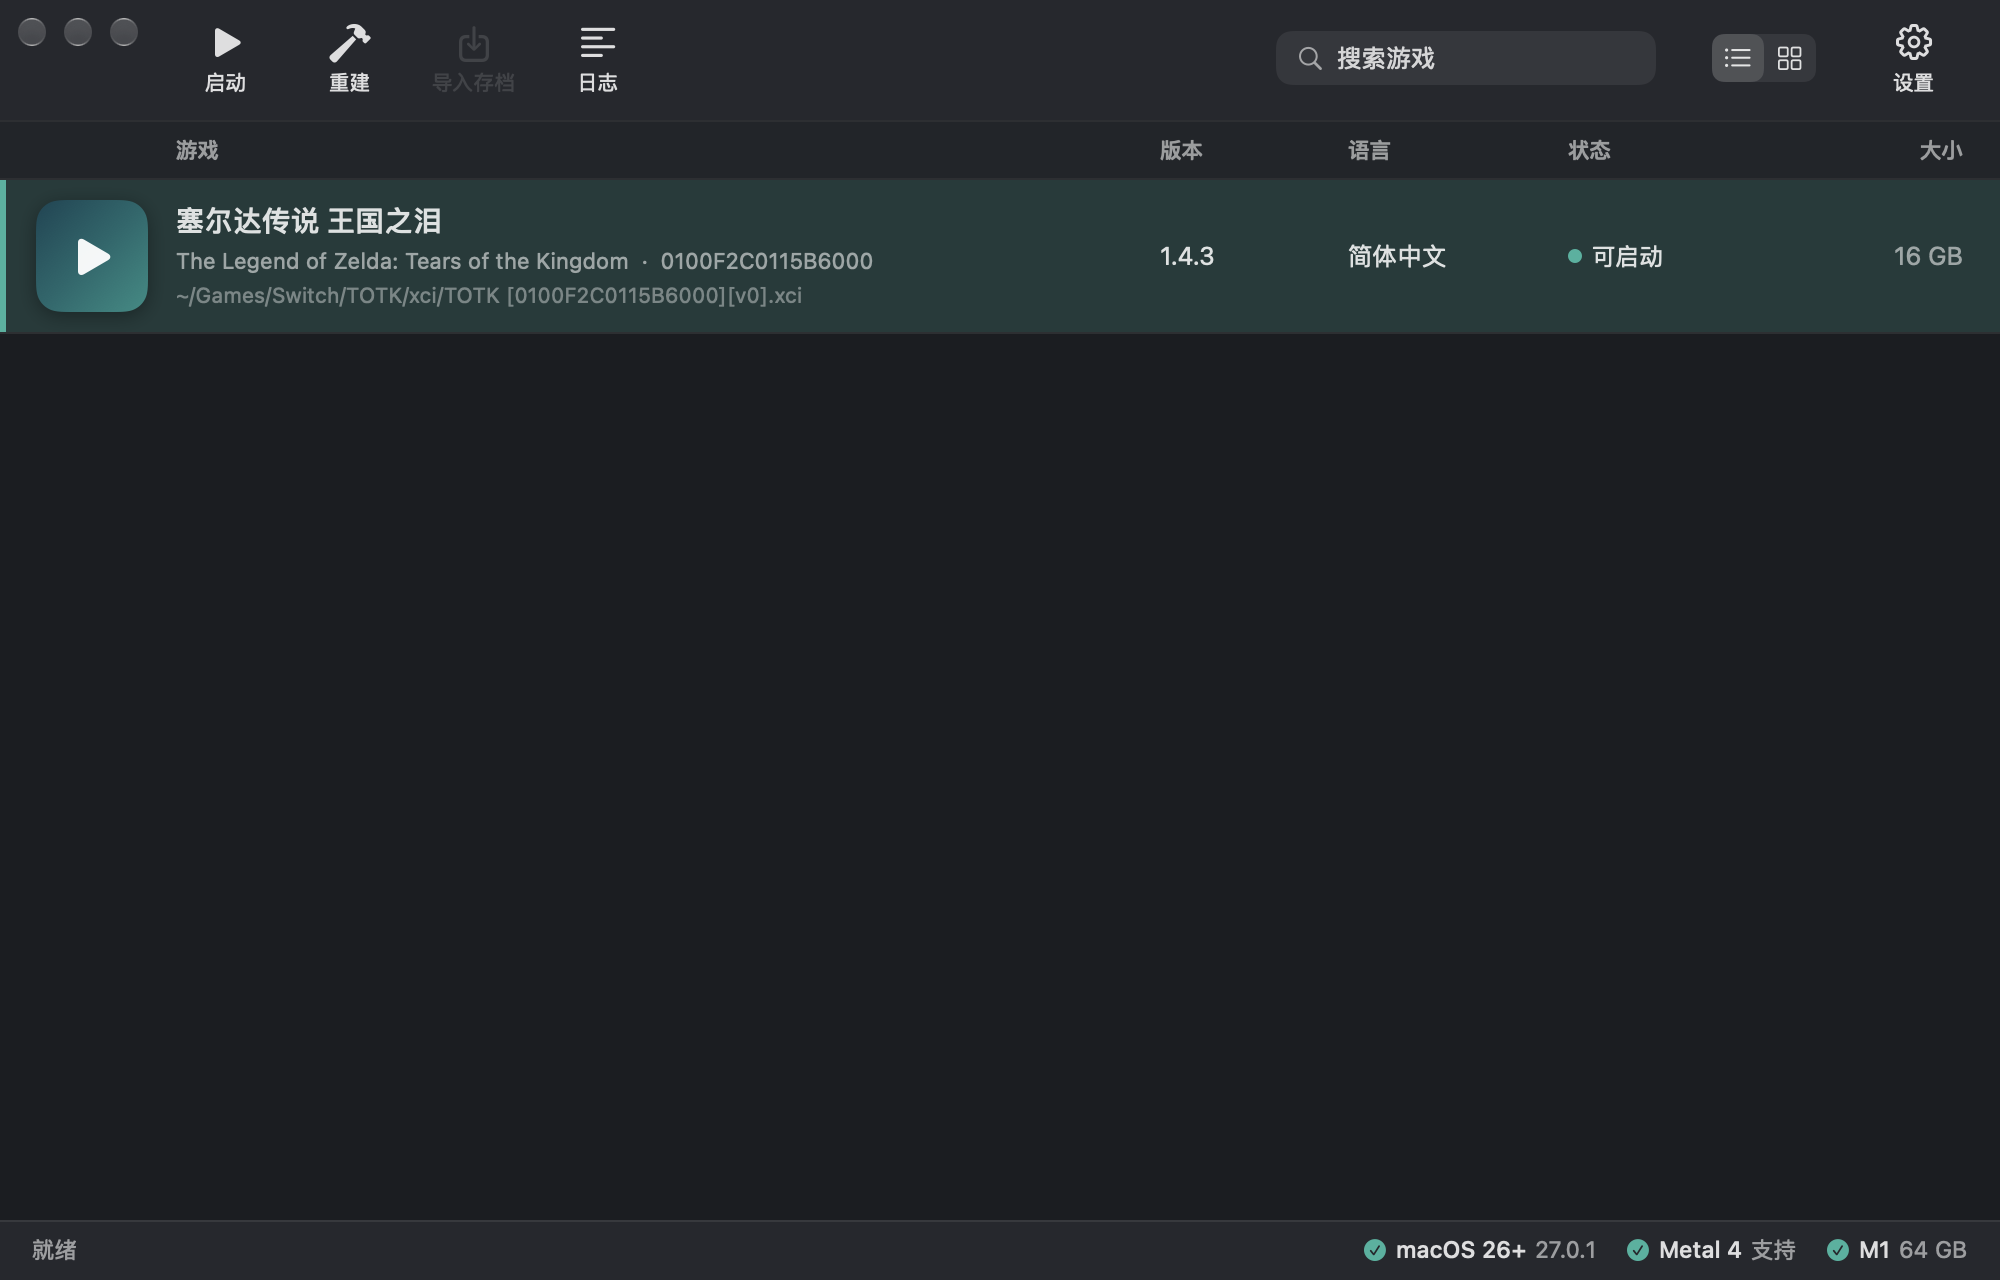
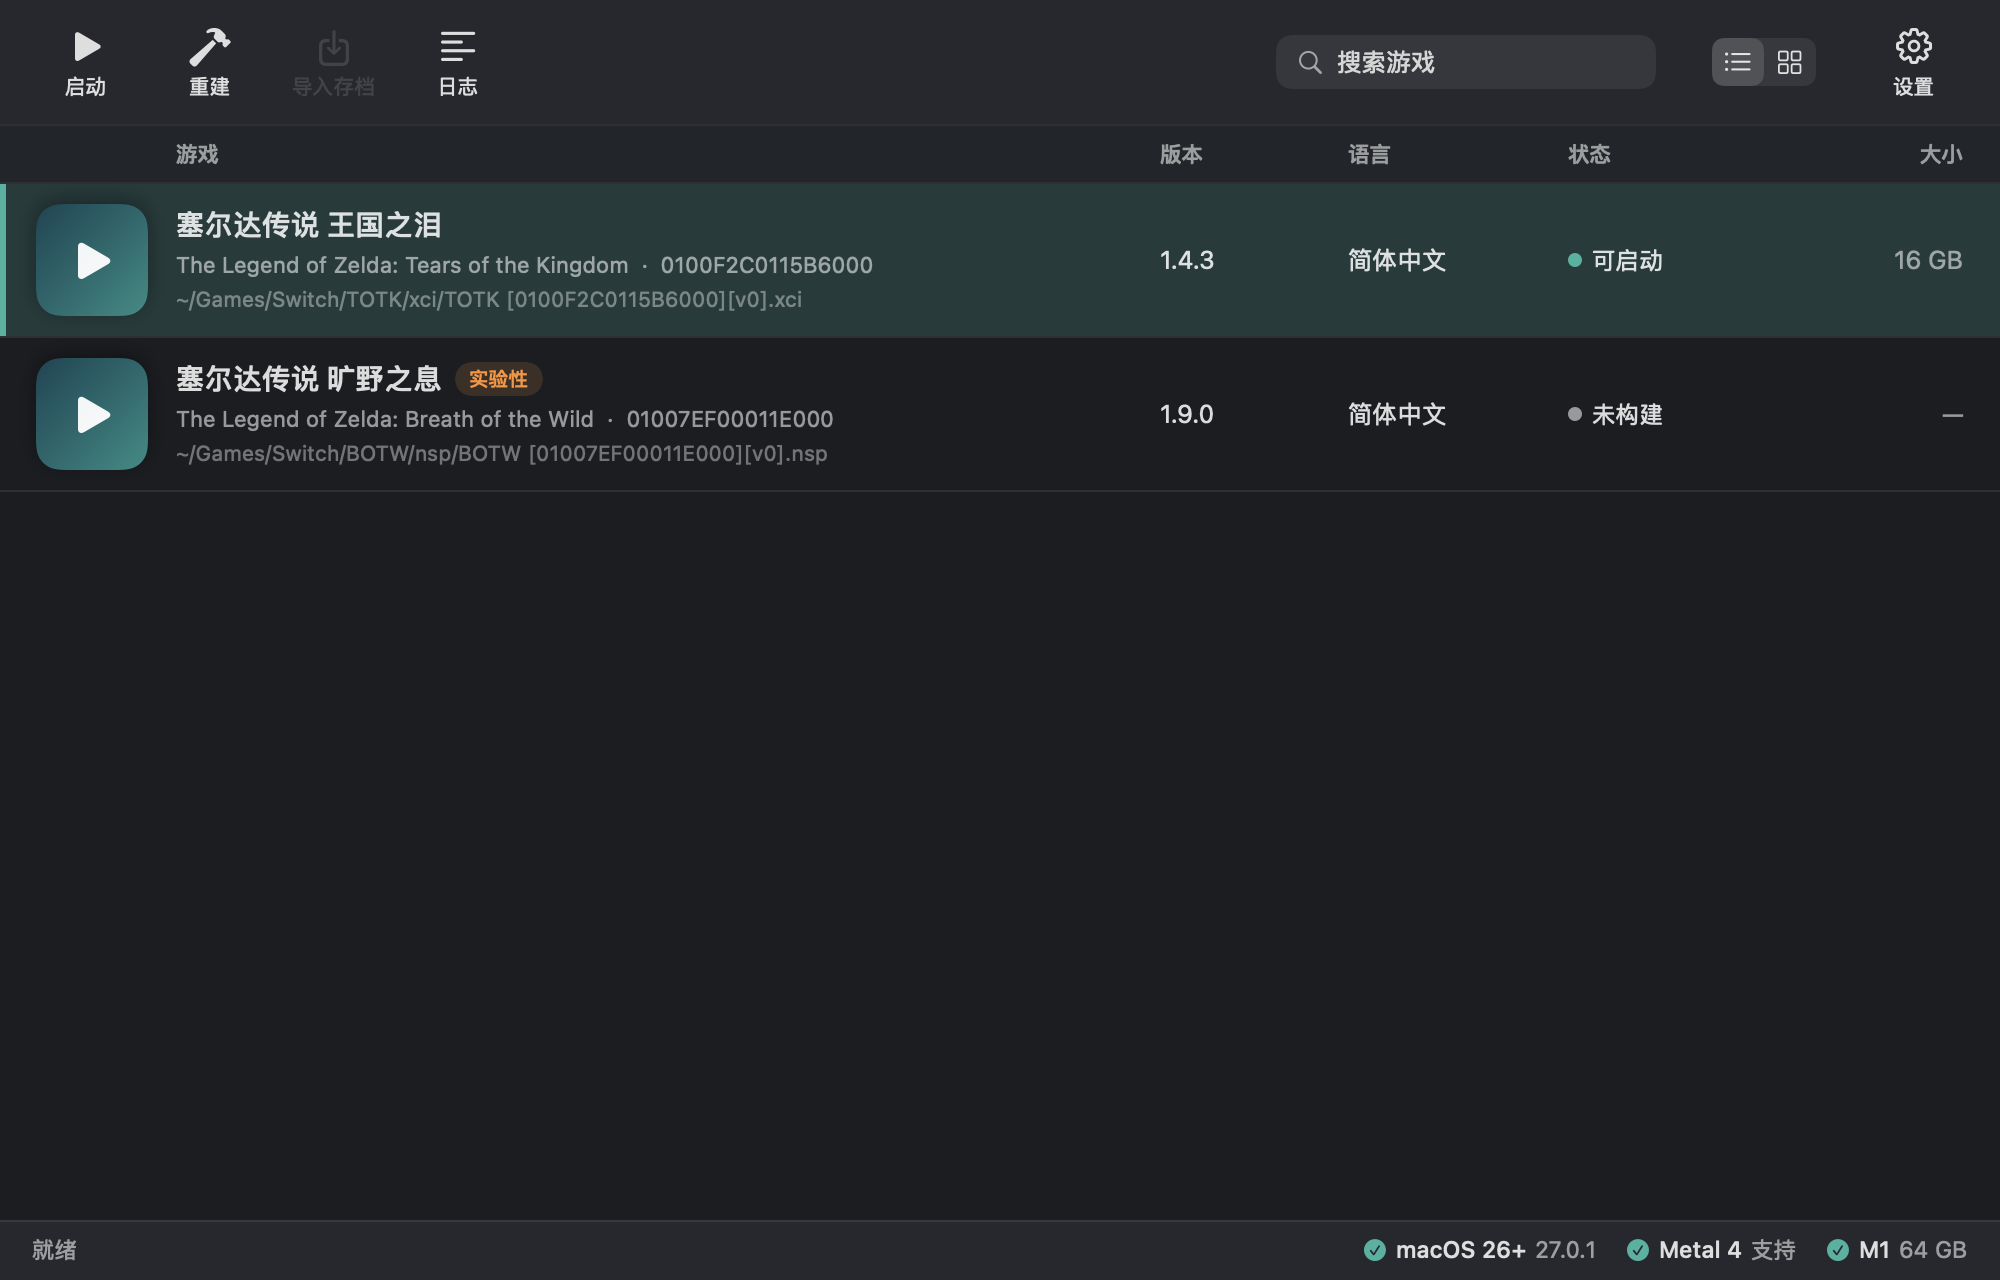
release 1.1.0: sw-launcher with BOTW (experimental) and RomFS mods
README (zh/en): rename, two games, BOTW status and the known 1.9.0 BGM damage,
RomFS mods usage, upgrade path; refreshed screenshots.

diff --git a/README.md b/README.md
@@ -1,4 +1,4 @@
-# Switch macOS Launcher · 王国之泪 启动器
+# sw-launcher · Switch macOS Launcher
 
 [中文](#中文) · [English](#english)
 
@@ -10,9 +10,11 @@
 
 一个 Ryujinx 风格的 macOS 启动器，用来在 **Apple 芯片 Mac** 上构建并运行**你自己拥有的**游戏。
 
-> **目前暂时只支持《塞尔达传说 王国之泪》（TOTK）。** 仓库名里的 “switch” 是预留给以后的，别的游戏现在不能用。
+> **支持两款游戏：《塞尔达传说 王国之泪》（TOTK）和《塞尔达传说 旷野之息》（BOTW，实验性）。** 别的游戏现在不能用。
+>
+> v1.1.0 起启动器改名为 **sw-launcher**（原名“王国之泪启动器”）。旧版的设置会自动迁移，已经构建好的王国之泪 App 不用重新构建。
 
-本项目**基于 [MacNativeGames](https://github.com/ly05010419/MacNativeGames)（MIT，作者 ly05010419）衍生**：构建与运行游戏的核心全部来自它；本仓库提供图形化启动器，以及一份针对 M1 / macOS 27 的兼容与加速补丁。
+本项目**基于 [MacNativeGames](https://github.com/ly05010419/MacNativeGames)（MIT，作者 ly05010419）衍生**：构建与运行游戏的核心全部来自它；本仓库提供图形化启动器，以及两份补丁：针对 M1 / macOS 27 的兼容与加速补丁，和旷野之息移植加 Mods 支持的补丁。启动器只记录并执行“怎么移植”，游戏文件只在你自己的 Mac 上处理。
 
 ### 重要声明（请务必阅读）
 
@@ -33,13 +35,15 @@
 
 ### 功能
 
-- **游戏库界面**：深色、工具栏（启动 / 构建 / 导入存档 / 日志）、搜索、列表 / 网格、底部状态栏；支持把 `.xci` / `.nsp` 直接拖进窗口。
+- **游戏库界面**：深色、工具栏（启动 / 构建 / 导入存档 / 日志）、搜索、列表 / 网格、底部状态栏；游戏库里有王国之泪和旷野之息两个条目，选中哪个，构建、启动、存档、日志和设置就针对哪个；支持把 `.xci` / `.nsp` 直接拖进窗口（文件名里带游戏 ID 时会自动选中对应的游戏）。
+- **两款游戏互不干扰**：存档、着色器缓存、日志分别放在 `~/Library/Application Support/MacNativeGames/<TOTK|BOTW>/` 和 `~/Library/Logs/MacNativeGames/<totk|botw>.log`。同一时间只能运行一款；另一款在运行时，启动器会提示，不会去关掉它。
+- **Mods**：支持替换游戏文件的 RomFS mod，见下文。
 - **系统检测**：macOS 版本、芯片（M1–M5 系列）、内存、Metal 3 / Metal 4；顶部和状态栏明确写出 **macOS 26+、Metal 4** 的要求，不满足时给出"不支持"。
 - **环境检查与后台安装**：检查 Xcode 命令行工具、Homebrew、Python 3.14、opus / libvpx、构建工具、**Metal Toolchain（839 MB）**、磁盘空间；缺什么就给"安装"按钮，后台下载并显示进度。每一项都要你点击才会执行。
 - **语言**：12 种，**默认简体中文**。游戏本体自带简体 / 繁体等文本，不需要额外的汉化补丁。
 - **存档**：选择存档文件夹后一键导入，**覆盖前自动备份**。
 - **构建**：调用 MacNativeGames 的构建脚本，显示 4 步进度；自动准备一份清理过的 `prod.keys` 副本（去掉会让 hactool 报错的行，原文件不动）。
-- **启动**：检测到"内存地址预留失败"时自动重试（见下文），不用手动再开。
+- **启动**：检测到"内存地址预留失败"时自动重试（见下文），不用手动再开。重试时只等上一次启动自己退出，不会结束任何进程。
 
 ### 相对上游的改进（`totk-mac-fixes.patch`）
 
@@ -53,9 +57,24 @@
 | **语言设置文件** | 双击启动的 App 读不到环境变量，改为读取 `~/Library/Application Support/MacNativeGames/TOTK/language.txt`。 | — |
 | **默认以原生 2K 启动**（v1.0.1） | 上游默认以 1920×1080 启动（画在 2560×1440 画布的左上角）。在测试机上，这一档和随后的 MetalFX 档都显示黑屏，完整 2560×1440 输出正常，所以默认改为以 2560×1440 启动。想回到上游的 1080p 启动，设环境变量 `TOTK_OUTPUT_RES=auto`。 | 启动后直接有画面，不用再按 `3`；整张画布都被画满。代价是渲染分辨率比 1080p 高，GPU 负担更重。 |
 
-### Mods 与其他尚未实现的事
+### 旷野之息（实验性，`sw-port.patch`）
 
-- **Mods：入口已预留，暂未实现。** 游戏运行时目前没有 Mods 加载器，设置里的 Mods 路径只会被保存，不会被应用（界面上标着"暂不生效"）。欢迎贡献。
+- **需要**：基础游戏的 NSP 和 **1.9.0 更新的 NSP**（只支持 1.9.0，构建时按程序哈希识别版本），以及和王国之泪一样的 `prod.keys`、固件。
+- **现状**：能构建、能启动，能看到开场的光芒和复苏神庙画面。场景偏暗，光照还不完整；没有经过长时间游玩验证；画质切换（MetalFX）和补帧还没有适配旷野之息。App 没有图标（用默认图标）。
+- **第一次启动比较慢**：旷野之息还没有预先准备好的着色器，用到时才翻译并缓存。
+- **已知损坏的更新文件**：有些 1.9.0 更新文件里有 1 MiB 损坏，全部落在 `Sound/Resource/Stream/Event_BGM_CompleteMasterSword.bfstm`（拔出大师之剑时的一段背景音乐）里。这种情况会照常构建并给出提示；这段音乐播放时会不会出问题还没有验证。**只要有任何一处损坏落在别的文件里，构建就会停下**，并列出出问题的文件，请换一份干净的更新文件。
+
+### Mods（RomFS 替换）
+
+- 在“设置 → 存档与 Mods”里选一个 Mods 文件夹。两种结构都认：`<Mods 文件夹>/<mod 名>/romfs/...`，以及 Ryujinx 的 `<Mods 文件夹>/contents/<游戏 ID>/<mod 名>/romfs/...`（只取当前游戏 ID 下的）。王国之泪的 ID 是 `0100F2C0115B6000`，旷野之息是 `01007EF00011E000`。
+- 每个 mod 可以单独开关、调整顺序；多个 mod 改了同一个文件时，**列表里靠下的生效**，界面上会标出冲突数。设置按游戏分开保存。
+- 改动在下次点“启动”时生效，**不用重新构建**。全部关掉时，游戏读到的就是原版文件。
+- **只能替换游戏里已有的文件**。mod 里原版没有的新文件会被跳过，游戏照常启动，启动器会标出“含新增文件，不支持”。
+- 启动后再改动 mod 文件，下次启动会被检查出来并提示重新启动。
+- **暂不支持** ExeFS 补丁（`.ips` / `.pchtxt`）和金手指（Atmosphere `cheats/`）。
+
+### 其他尚未实现的事
+
 - **1080p 启动档和 MetalFX 档在测试机上仍会黑屏**（v1.0.1 起默认已避开它们，改为原生 2K 启动）。游戏渲染和放大后的输出都是正常的，问题出在最后把画面送到窗口显示的一步，**根本原因没有找到**；在其他 Mac 上是否也会这样未知。
 - 在游戏里：`1` 显示 / 隐藏帧率等信息，`2` 切换补帧，`3` 循环切换画质（原生 2K → 关闭 2K（1080p）→ MetalFX 2K → 原生 2K；在测试机上只有"原生 2K"有画面）。
 
@@ -68,31 +87,35 @@
 
 ### 安装
 
-1. 到 [Releases](https://github.com/elisezhu123/switch-macos-launcher/releases) 下载 `TOTK-macOS-Launcher-v*-arm64.zip`，解压，拖到"应用程序"。
+1. 到 [Releases](https://github.com/elisezhu123/switch-macos-launcher/releases) 下载 `sw-launcher-v*-arm64.zip`，解压，拖到"应用程序"。
 2. **移除隔离属性（quarantine）。** 这个 App 没有 Apple 开发者签名和公证（只是本地临时签名），从浏览器下载后会被 macOS 拦截，需要在终端运行：
 
    ```bash
-   xattr -dr com.apple.quarantine "/Applications/王国之泪启动器.app"
+   xattr -dr com.apple.quarantine "/Applications/sw-launcher.app"
    ```
 
    也可以右键 → 打开，再在系统设置 → 隐私与安全性里点"仍要打开"。
-3. 打开 App → 设置（⌘,）→ 填入游戏本体、`prod.keys`、固件 → 在"环境"页把缺的东西装好 → 回到主窗口点"构建" → 构建完成后点"启动"。
+3. 打开 App → 在游戏库里选中要玩的游戏 → 设置（⌘,）→ 填入游戏本体（旷野之息还要 1.9.0 更新）、`prod.keys`、固件 → 在"环境"页把缺的东西装好 → 回到主窗口点"构建"，等进度条走完 → 点"启动"。
+4. 从 v1.0.x 升级：已经装好的构建工具只打过第一个补丁，在"环境"页点"Mac 兼容补丁与旷野之息移植"的"安装"，只会补打缺少的补丁。
 
 ### 从源码构建
 
 需要 Xcode（或命令行工具里的 `swiftc`）：
 
 ```bash
-./build.sh                       # 生成 王国之泪启动器.app
-./scripts/make-release.sh 1.0.0  # 构建、去掉 quarantine、打 zip 和校验和（输出到 dist/）
+./build.sh                       # 生成 sw-launcher.app
+./scripts/make-release.sh 1.1.0  # 构建、去掉 quarantine、打 zip 和校验和（输出到 dist/）
+./scripts/test.sh                # 启动器逻辑的单元测试（不需要游戏文件）
 ```
 
 ### 目录
 
 | 文件 | 作用 |
 |---|---|
-| `Launcher.swift` | 启动器全部代码（SwiftUI） |
-| `totk-mac-fixes.patch` | 对 MacNativeGames 的补丁（内存回退、多线程预热、预编译着色器、语言设置、烘焙脚本） |
+| `Launcher.swift` | 启动器界面（SwiftUI） |
+| `LauncherCore.swift`、`Tests/` | 不涉及界面的逻辑（游戏、路径、设置迁移、Mods、运行状态）和它的测试 |
+| `totk-mac-fixes.patch` | 对 MacNativeGames 的第一个补丁（内存回退、多线程预热、预编译着色器、语言设置、烘焙脚本） |
+| `sw-port.patch` | 第二个补丁，打在第一个之后：旷野之息 1.9.0 移植、构建入口（`build_app.py --title botw`）、RomFS Mods |
 | `build.sh` / `scripts/make-release.sh` | 构建与发布 |
 
 ### 致谢
@@ -103,8 +126,8 @@
 
 ### 许可与使用范围
 
-- 本仓库的代码以 MIT 许可发布，见 [LICENSE](LICENSE)（`totk-mac-fixes.patch` 是对 MacNativeGames 的修改，保留其 MIT 版权声明）。
-- **目前仅支持 TOTK。** 游戏必须由你自己从自己的 Switch 中获取，**不可分发、不可出售，仅限个人使用**。
+- 本仓库的代码以 MIT 许可发布，见 [LICENSE](LICENSE)（两个补丁都是对 MacNativeGames 的修改，保留其 MIT 版权声明）。
+- **目前只支持王国之泪和旷野之息（实验性）。** 游戏必须由你自己从自己的 Switch 中获取，**不可分发、不可出售，仅限个人使用**。
 - 《塞尔达传说》及相关名称、商标归任天堂所有，本项目与任天堂无关，也不分发游戏、密钥或固件。
 
 ---
@@ -113,7 +136,7 @@
 
 A Ryujinx-style macOS launcher for building and running **your own copy** of a game on **Apple silicon Macs**.
 
-> **Only *The Legend of Zelda: Tears of the Kingdom* is supported for now.**
+> **Supports *The Legend of Zelda: Tears of the Kingdom* and, experimentally, *Breath of the Wild* (1.9.0).** Renamed to **sw-launcher** in v1.1.0; v1.0.x settings are migrated and an already built TOTK app keeps working.
 
 It is **derived from [MacNativeGames](https://github.com/ly05010419/MacNativeGames) (MIT) by [ly05010419](https://github.com/ly05010419)**, who did the real work of making the game run natively. Many thanks! This repository adds a native launcher plus a small patch for M1 / macOS 27.
 
@@ -123,14 +146,18 @@ It is **derived from [MacNativeGames](https://github.com/ly05010419/MacNativeGam
 
 **Patch (`totk-mac-fixes.patch`, 5 files, against upstream commit `41e1e0c`)**: multi-threaded shader pre-warming (6 threads by default, `TOTK_WARM_THREADS`), a persistent precompiled shader cache (`.metallib` files that other Metal apps cannot evict), a memory-layout fallback for Macs where the default fixed addresses cannot be reserved, a `language.txt` setting, and (v1.0.1) **starting in native 2560×1440 by default** (`TOTK_OUTPUT_RES=auto` restores the upstream 1080p start).
 
-**Not implemented / known issues**: **mods** — the field is reserved in the UI but the game runtime has no mod loader yet, so nothing is applied. On the test machine (M1 Max, macOS 27) the 1080p start mode and the MetalFX mode show a black window while the full 2560×1440 output works; the scene and the upscaled output are rendered correctly, the failure is in the last step that puts the picture on the window. The root cause was not found, v1.0.1 simply avoids those modes by default.
+**BOTW (experimental, `sw-port.patch`)**: needs the base NSP and the 1.9.0 update NSP. It builds and starts, showing the opening flash and the Shrine of Resurrection; lighting is incomplete, MetalFX and frame interpolation are not adapted yet, first start translates shaders on use. Some 1.9.0 update copies have one damaged 1 MiB region inside `Event_BGM_CompleteMasterSword.bfstm`; that case builds with a warning, any damage elsewhere stops the build and names the file.
+
+**Mods (RomFS)**: pick a mods folder in Settings → 存档与 Mods. Layouts `<mods>/<mod>/romfs/...` and Ryujinx's `<mods>/contents/<title ID>/<mod>/romfs/...`. Per-mod on/off and order (later wins, conflicts shown), applied at the next start without rebuilding. Only files the game already has can be replaced; new files are skipped and flagged. No ExeFS patches or cheats.
+
+**Not implemented / known issues**: On the test machine (M1 Max, macOS 27) the 1080p start mode and the MetalFX mode show a black window while the full 2560×1440 output works; the scene and the upscaled output are rendered correctly, the failure is in the last step that puts the picture on the window. The root cause was not found, v1.0.1 simply avoids those modes by default.
 
 **Requirements**: macOS 26+ and Metal 4 (the launcher itself targets macOS 15 but will report "unsupported" on older systems), Apple silicon, 16 GB+ recommended. Tested only on an M1 Max / 64 GB / macOS 27.0.1.
 
 **Install**: download the zip from Releases, move the app to Applications, then remove the quarantine attribute (the app is ad-hoc signed, not notarized):
 
 ```bash
-xattr -dr com.apple.quarantine "/Applications/王国之泪启动器.app"
+xattr -dr com.apple.quarantine "/Applications/sw-launcher.app"
 ```
 
 Build from source with `./build.sh`; produce a release zip with `./scripts/make-release.sh`. MIT licensed (see [LICENSE](LICENSE)).
